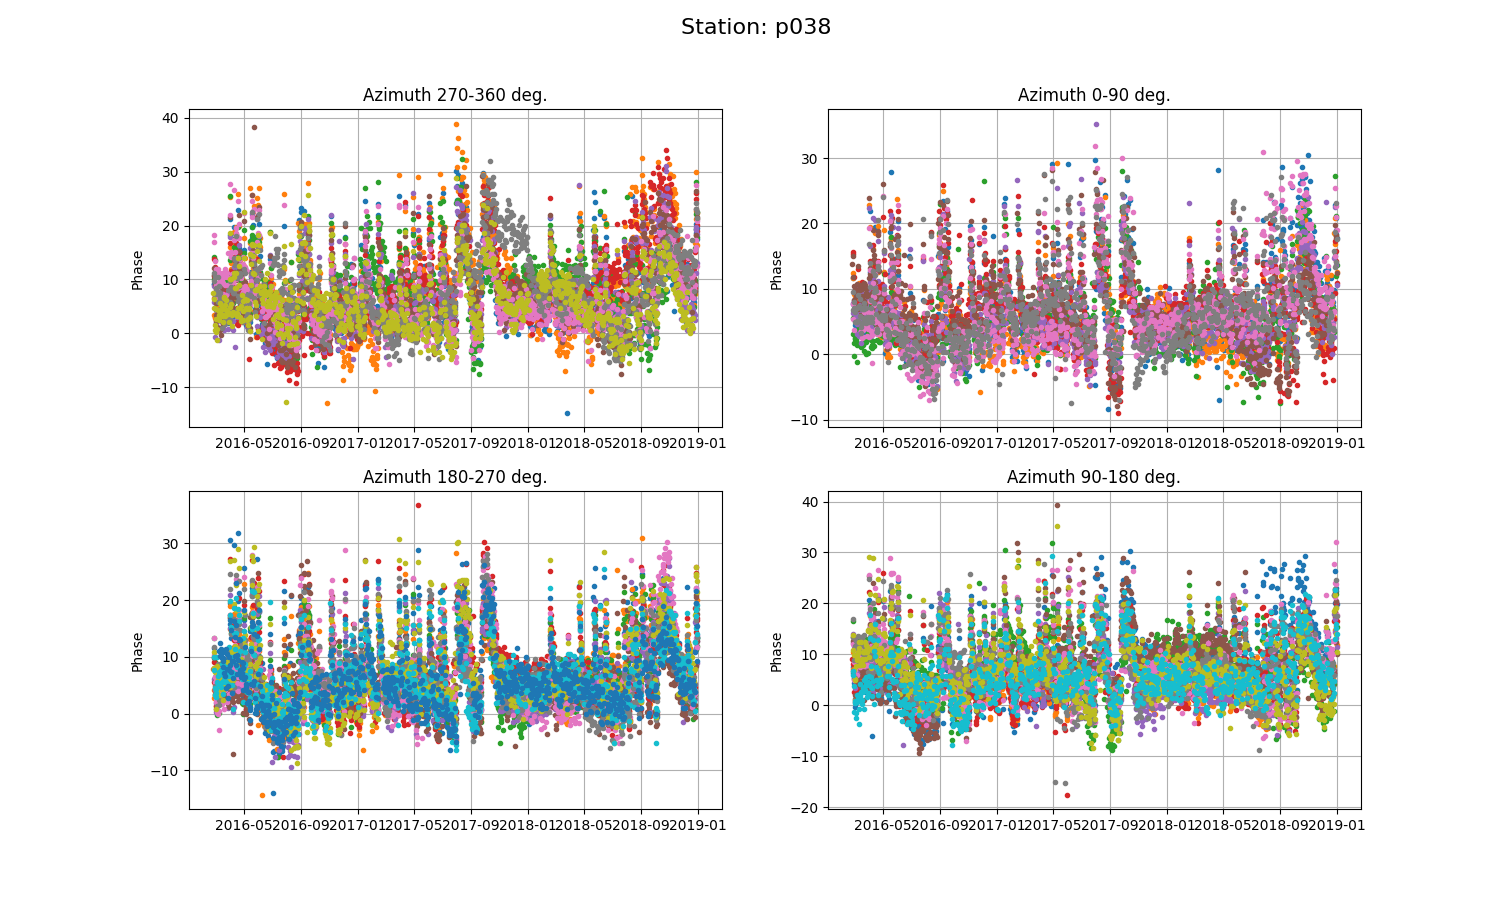
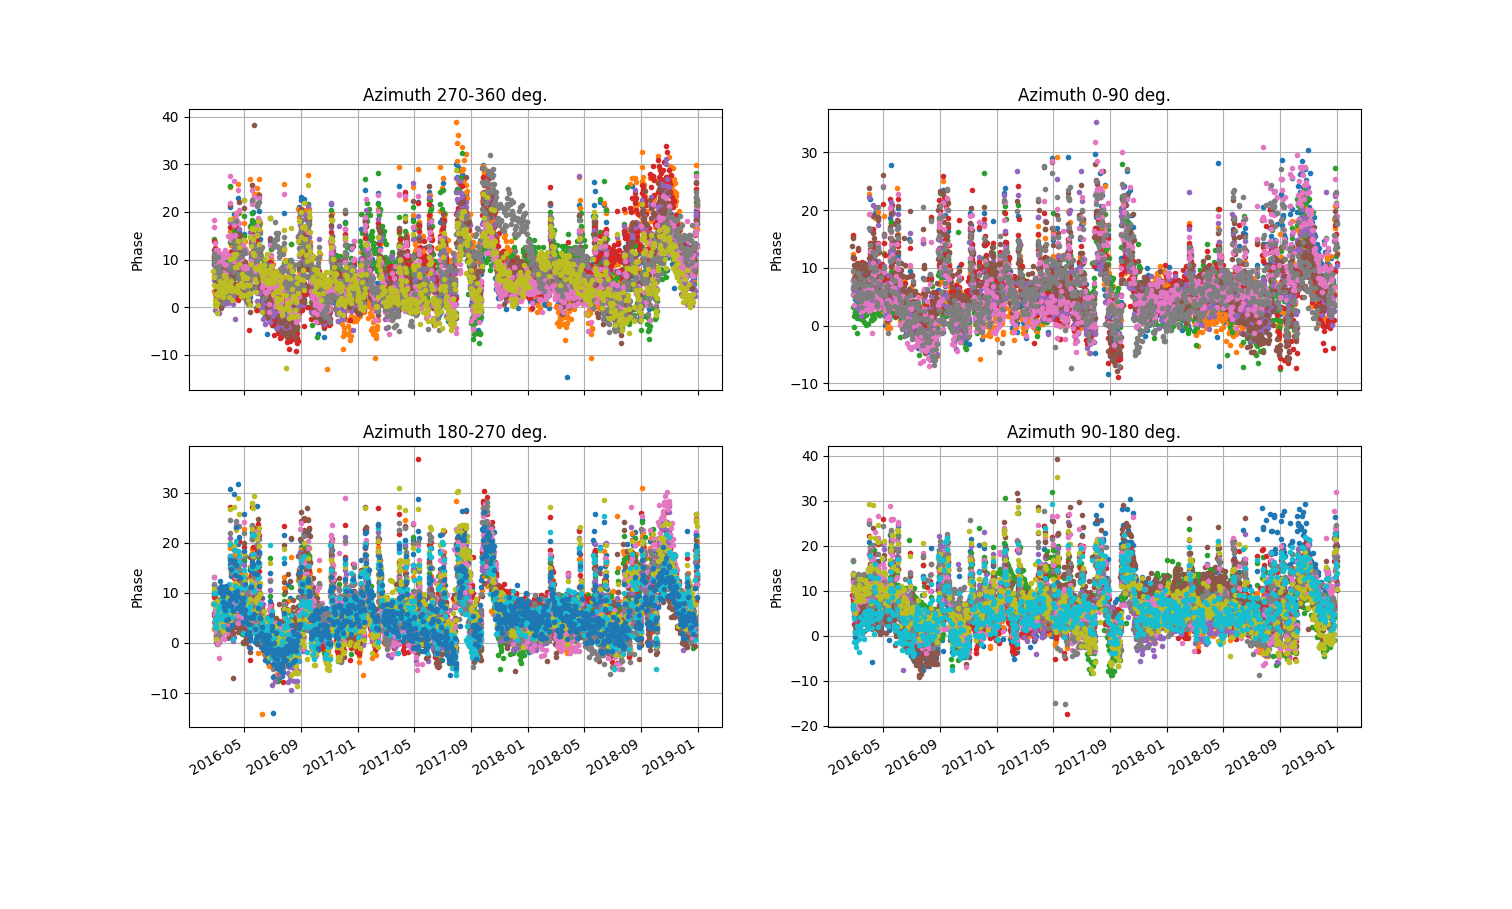
changed x-axis on some of the VWC plots to improve readability

diff --git a/gnssrefl/plot_phase.py b/gnssrefl/plot_phase.py
@@ -54,6 +54,8 @@ def daily_phase_plot(station, fr,datetime_dates, tv,xdir):
     else:
         plt.title(f"Daily L2C Phase Results: {station.upper()}")
     plt.grid()
+    plt.gcf().autofmt_xdate()
+
     plot_path = f'{xdir}/Files/{station}_daily_phase.png'
     print(f"Saving figure to {plot_path}")
     plt.savefig(plot_path)
@@ -287,9 +289,9 @@ def plot_phase(station: str, year: int, year_end: int = None, fr: int = 20, sat:
     vxyz = np.empty(shape=[0, 7]) 
 
     # try removing these
-    plt.figure(figsize=(13, 10))
-    ax=plt.subplots_adjust(hspace=0.2)
-    plt.suptitle(f"Station: {station}", size=16)
+    fig = plt.figure(figsize=(13, 10))
+    #ax=plt.subplots_adjust(hspace=0.2)
+    #plt.suptitle(f"Station: {station}", size=16)
 
     # this is the number of points for a given satellite track
     reqNumpts = min_req_pts_track
@@ -310,7 +312,6 @@ def plot_phase(station: str, year: int, year_end: int = None, fr: int = 20, sat:
         ax = plt.subplot(2, 2, index + 1)
         ax.set_title(f'Azimuth {str(amin)}-{str(amax)} deg.')
         ax.grid()
-
         #ax.autofmt_xdate()
 
         # this satellite list is really satellite TRACKS
@@ -404,6 +405,8 @@ def plot_phase(station: str, year: int, year_end: int = None, fr: int = 20, sat:
 
                     ax.plot(datetime_dates, new_phase, 'o', markersize=3)
                     ax.set_ylabel('Phase')
+                    # ???
+                    plt.gcf().autofmt_xdate()
 
 
     plot_path = f'{xdir}/Files/{station}_az_phase.png'

diff --git a/gnssrefl/quickPhase_function.py b/gnssrefl/quickPhase_function.py
@@ -39,7 +39,8 @@ def vwc_plot(station,t_datetime, vwcdata, plot_path):
     plt.ylim(0, 0.5)
     plt.ylabel('Vol. Soil Moisture')
     plt.grid()
-    #fig.autofmt_xdate()
+    plt.gcf().autofmt_xdate()
+
 
     print(f"Saving to {plot_path}")
     plt.savefig(plot_path)
@@ -444,14 +445,14 @@ def convert_phase(station, year, year_end=None, plt2screen=True,fr=20):
     ax.set_ylabel('phase (degrees)')
     ax.legend(loc='best')
     ax.grid()
+    # ?? does not seem to be working.  sigh
+    plt.gcf().autofmt_xdate()
 
-    # More descriptive variable names would help :)
+
+    # More descriptive variable names would help 
     st = nodes[:, 0] + nodes[:, 1]/365.25
     st_datetime = [datetime.strptime(f'{int(yr)} {int(d)}', '%Y %j') for yr, d in zip(nodes[:, 0], nodes[:, 1])]
-
     sp = nodes[:, 2]
-
-
 
     howmanynodes = len(sp)
     print('number of nodes', howmanynodes)
@@ -477,6 +478,7 @@ def convert_phase(station, year, year_end=None, plt2screen=True,fr=20):
     ax.set_title('Volumetric Water Content')
     ax.legend(loc='best')
     ax.grid()
+    plt.gcf().autofmt_xdate()
 
     plot_path = f'{xdir}/Files/{station}_phase_vwc_result.png'
     print(f"Saving to {plot_path}")
